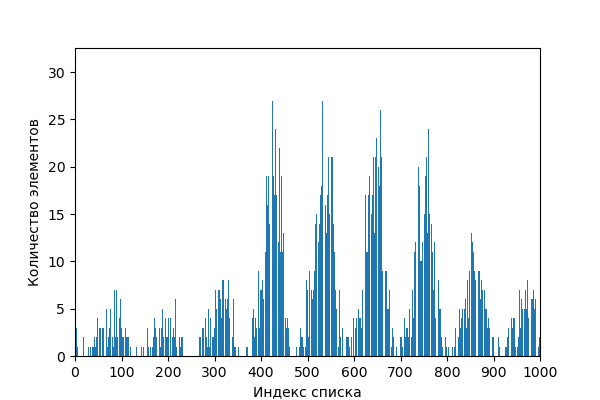
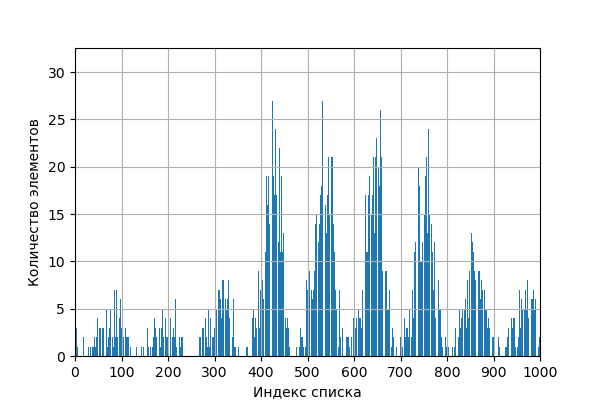
Update bars

diff --git a/src/make_bar.py b/src/make_bar.py
@@ -4,7 +4,7 @@ import numpy as np
 fig = plt.figure( figsize = (6, 4) )
 ax = fig.add_subplot()
 
-post_file_name = "const"
+post_file_name = "ror"
 
 data = []
 
@@ -13,7 +13,9 @@ with open( "res/output_" + post_file_name + ".csv", "r" ) as f:
 
 x = [i for i in range( len( data ) )]
 
-xmax = 200
+xmax = 1000
+
+print( np.var( data ) )
 
 plt.xlim  ( 0, xmax )
 plt.xticks( [i for i in range( 0, xmax + 1, 100 )] )
@@ -21,8 +23,8 @@ plt.xlabel( "Индекс списка" )
 plt.ylabel( "Количество элементов" )
 
 ax.bar( x, data )
+plt.grid()
 
 fig.savefig( "res/bar_" + post_file_name + ".png" )
 
-plt.grid()
 plt.show()

diff --git a/README.md b/README.md
@@ -32,3 +32,10 @@ size_t GetConstHash( Elem_t elem )
 ```
 
 <p style="text-align: center"><img src=res/bar_const.png width="550px"/></p>
+
+26362
+1102
+3612
+34
+8 rol
+7 ror
